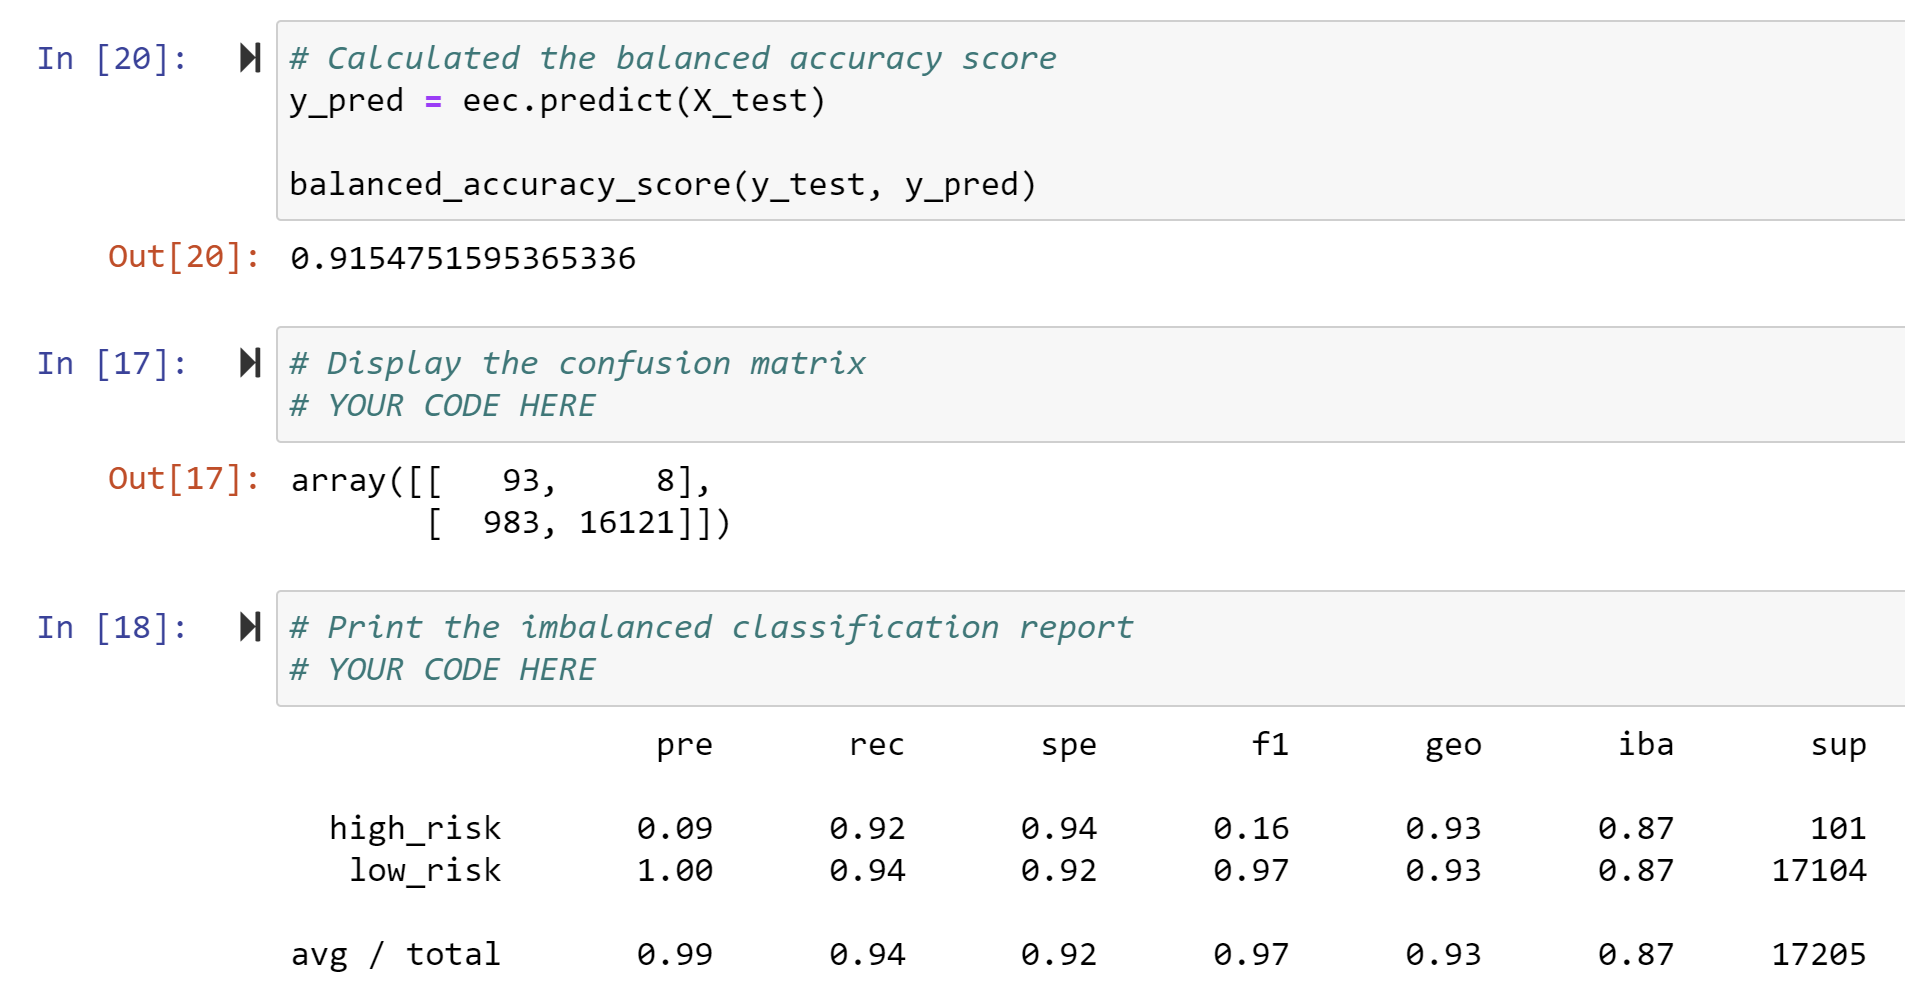
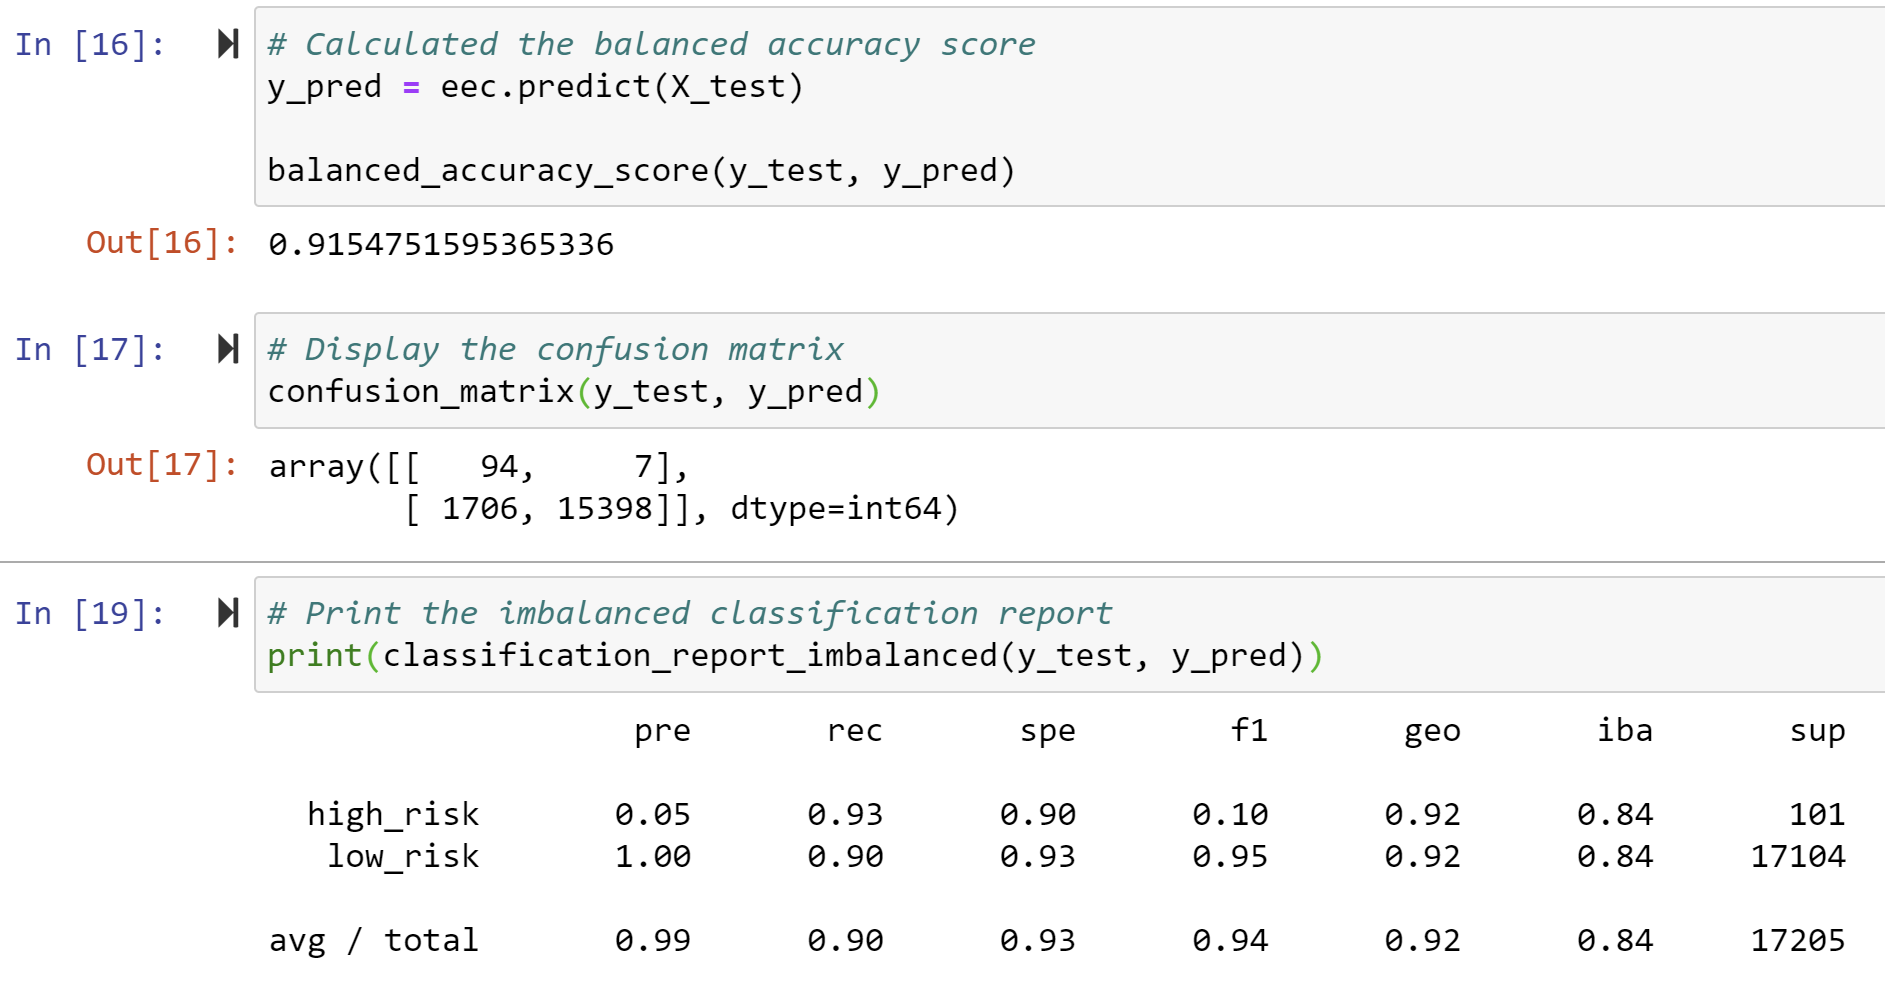
Update files

diff --git a/README.md b/README.md
@@ -1,36 +1,37 @@
 # Credit Risk Analaysis
 ## Overview
-
+The purpose of this analysis is to create a machine learning model to find loan risk based on several different factors of the applicant history. We used resampling and ensemable learning techniques to test for accuracy, precision, and sensitivity.
 ## Results
-###
-![]()
--
--
--
-###
-![]()
--
--
--
-###
-![]()
--
--
--
-###
-![]()
--
--
--
+### Naive Random Oversampling
+![Naive Random Oversampling](https://github.com/AnnieShaffer/credit_risk_analysis/blob/main/Images/naive_random_oversampling.png)
+- The balanced accuracy score is 0.68
+- There is a low precision score in predicting high credit risk, and a high precision score in predicting low credit risk
+- There is a higher sensitivity to high risk loans at 0.76, than lower risk loans at 0.59
+### SMOTE Oversampling
+![SMOTE](https://github.com/AnnieShaffer/credit_risk_analysis/blob/main/Images/smote_oversampling.png)
+- The balanced accuracy score is 0.66
+- There is a low precision score in predicting high credit risk, and a high precision score in predicting low credit risk
+- There is a similar recall/sensitivity to both high and low risk loans at 0.63 and 0,69 respectively
+### Undersampling
+![Undersampling](https://github.com/AnnieShaffer/credit_risk_analysis/blob/main/Images/undersampling.png)
+- The balanced accuracy score is 0.55
+- There is a low precision score in predicting high credit risk, and a high precision score in predicting low credit risk
+- There is a higher recall/sensitivity to high risk loans at 0.68, and a lower recall/sensitivity to low risk loans at 0.41
+### Combination (Over and Under) Sampling
+![Combination Sampling](https://github.com/AnnieShaffer/credit_risk_analysis/blob/main/Images/combination_sampling.png)
+- The balanced accuracy score is 0.66 
+- There is a low precision score in predicting high credit risk, and a high precision score in predicting low credit risk
+- There is a higher sensitivity to high risk loans at 0.72, than lower risk loans at 0.57
 ### Balanced Random Forest Classifier
-![]()
--
--
--
+![Random Forest Classifier](https://github.com/AnnieShaffer/credit_risk_analysis/blob/main/Images/random_forest_classifier.png)
+- The balanced accuracy score is 0.79
+- There is a low precision score in predicting high credit risk, and a high precision score in predicting low credit risk
+- There is a higher recall/sensitivity to low risk loans at 0.87, than higher risk loans at 0.70
 ### Easy Ensamble AdaBoost Classifier
-![]()
--
--
--
+![Easy Ensemble](https://github.com/AnnieShaffer/credit_risk_analysis/blob/main/Images/easy_ensamble_classifier.png)
+- The balanced accuracy score is 0.92
+- There is a low precision score in predicting high credit risk, and a high precision score in predicting low credit risk
+- This test had similar recall/sensitivity scores for both high and low risk loans at 0.93 and 0.90 respectively
 
 ## Summary
+Most of the models used in this analysis were not very accurate. The resampling models had low balanced accuracy scores from 0.55 to 0.68. Additionally, the recall/sensitivity scores for each of these models was low in almost all cases. On the other hand, the Ensemble Classifiers were much better at predicting the risk of applicants, specifically the Easy Ensemble Classifier. This model was able to predict credit risk accurately at a rate of 92%. If the company needed to use a model immediately, this would be the most accurate model to use, however, the model is still not the great at predicting high risk loans and this could negatively impact the company in many ways.
